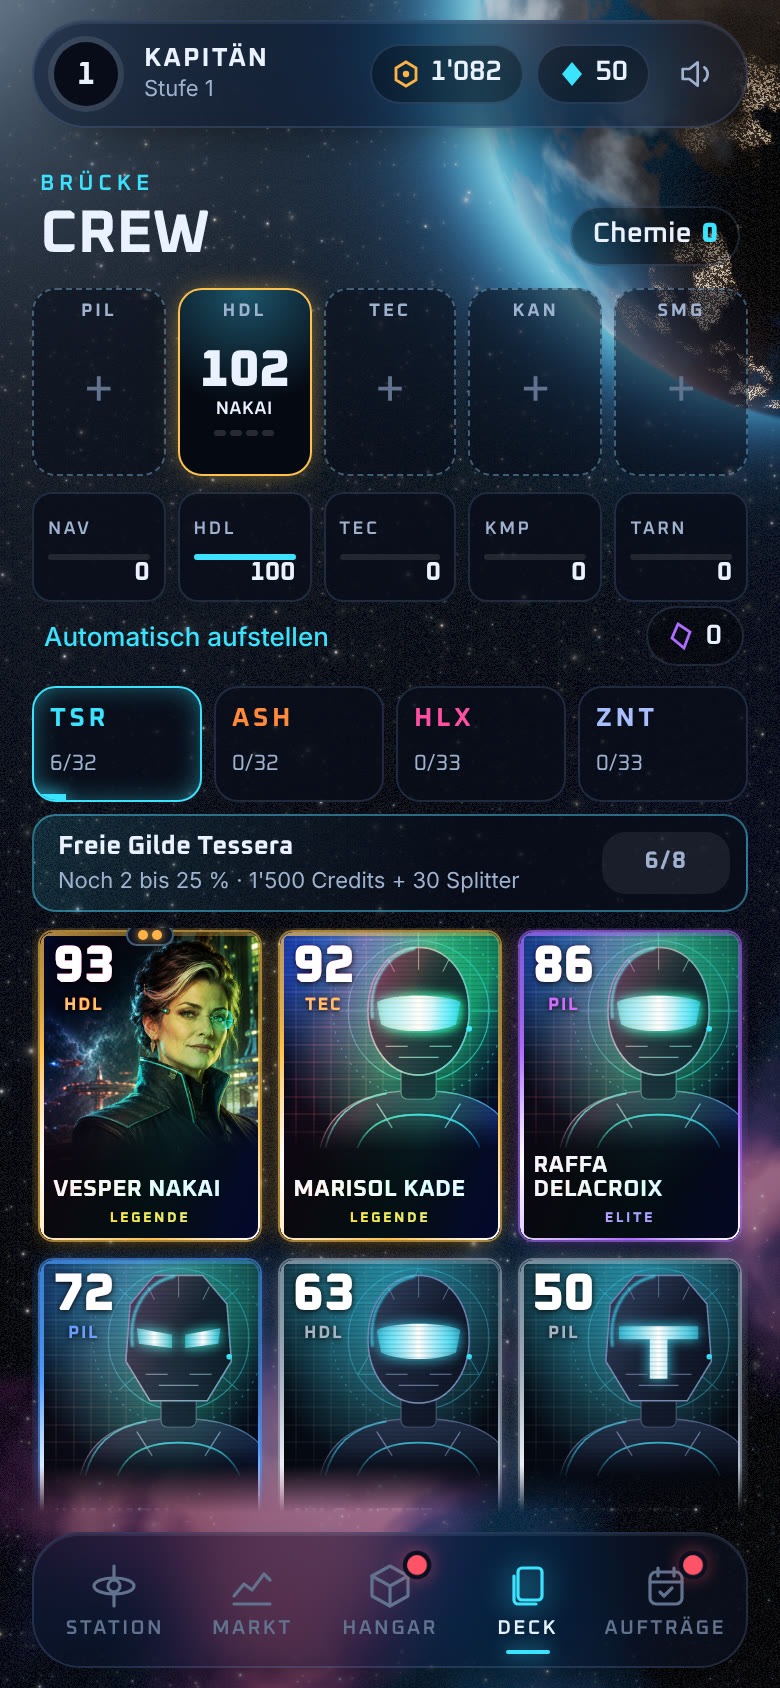
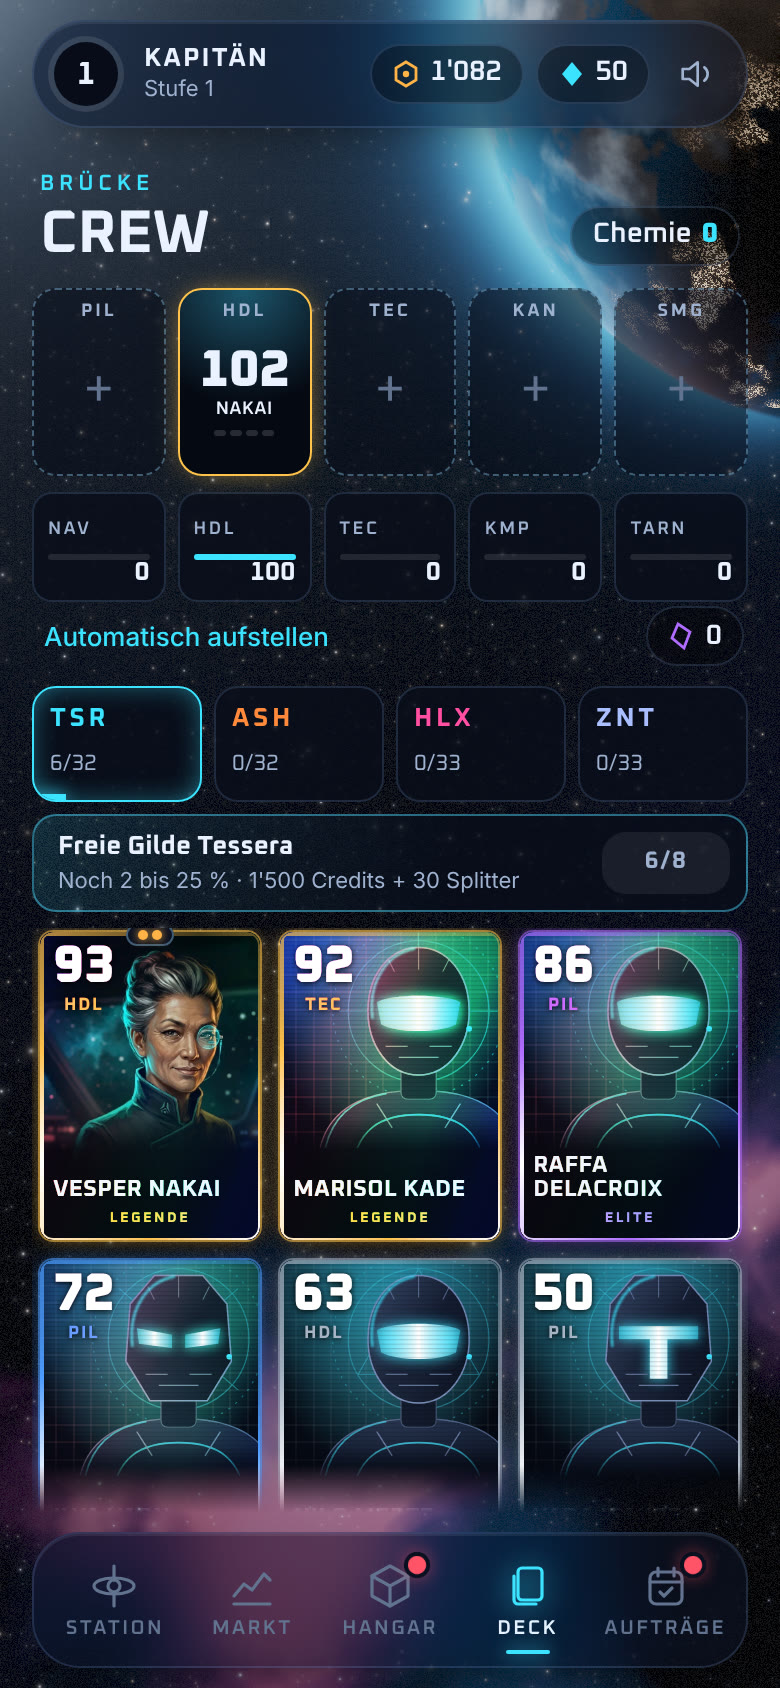
Use the Gemini portrait for c21, keep foil off painted faces
Replaces the sample portrait with the user's Gemini render and masks
the holo foil around the figure on painted cards so skin tones stay
true. Notes on keeping the style consistent across cards.

Claude-Session: https://claude.ai/code/session_01LRkk68pyJcCphAoNdXRYk3

diff --git a/packages/client/src/ui/styles.css b/packages/client/src/ui/styles.css
@@ -622,6 +622,11 @@ button.tile:active { transform: scale(0.96); }
 .holo.is-locked { --rar: #3a4760; --foil: 0; }
 .holo.is-locked .holo__art { filter: grayscale(1) brightness(0.5); }
 .holo.is-locked .avatar { filter: brightness(0.12); }
+/* On a painted portrait the foil plays around the figure and spares the face, so skin keeps its colour. */
+.holo--painted .holo__foil {
+  -webkit-mask-image: radial-gradient(58% 42% at 58% 36%, transparent 35%, #000 100%);
+  mask-image: radial-gradient(58% 42% at 58% 36%, transparent 35%, #000 100%);
+}
 .holo.is-locked .holo__img { filter: brightness(0.1) contrast(1.4); }
 .holo.is-locked .holo__head, .holo.is-locked .holo__plate { opacity: 0.4; }
 .holo.is-locked .holo__glare { display: none; }

diff --git a/packages/client/src/ui/HoloCard.tsx b/packages/client/src/ui/HoloCard.tsx
@@ -74,7 +74,7 @@ export function HoloCard({ card, size = 'lg', interactive = false, locked = fals
   return (
     <div
       ref={ref}
-      className={`holo holo--${size} holo--${card.rarity}${locked ? ' is-locked' : ''}`}
+      className={`holo holo--${size} holo--${card.rarity}${locked ? ' is-locked' : ''}${CARD_ART.has(card.id) ? ' holo--painted' : ''}`}
       style={{ ['--faction' as string]: FACTION_COLOR[card.faction] }}
       onClick={onClick}
       role={onClick ? 'button' : undefined}

diff --git a/docs/redesign/04-kartenkunst.md b/docs/redesign/04-kartenkunst.md
@@ -6,6 +6,17 @@ Stand: 25.11.2026. Versuch mit KI-generierten Porträts statt der prozeduralen H
 
 Eine Karte (Vesper Nakai, `c21`) hat ein generiertes Porträt bekommen. Vergleich in `preview/40-painted-card.jpg` und `preview/41-painted-vs-procedural.jpg`. Der Unterschied zum prozeduralen Avatar ist gross: Die Karte wirkt wie ein Sammelobjekt.
 
+## Zweiter Versuch: Gemini
+
+Dieselbe Karte, erzeugt in Gemini mit demselben Prompt. Dieses Bild ist jetzt als `c21` eingebaut. Es ist malerischer und weniger fotorealistisch als das erste aus Figma, was besser zu einem Kartenspiel passt und über viele Karten leichter einheitlich bleibt.
+
+Zwei Dinge für die nächsten Bilder:
+
+- **Im selben Gemini-Chat bleiben** und beim nächsten Prompt anfügen: `Same art style, brushwork and lighting as the previous portrait.` Das hält den Stil zusammen.
+- **Hochformat 4:5 verlangen**, Figur leicht rechts der Mitte, oben links dunkel. Das Bild von Vesper Nakai erfüllt das.
+
+Die Holo-Folie spart bei gemalten Karten das Gesicht aus, damit die Hautfarbe nicht verfärbt wird.
+
 ## So funktioniert es technisch
 
 - Datei nach `packages/client/src/assets/cards/<Karten-ID>.webp` legen, zum Beispiel `c21.webp`. Mehr braucht es nicht.
